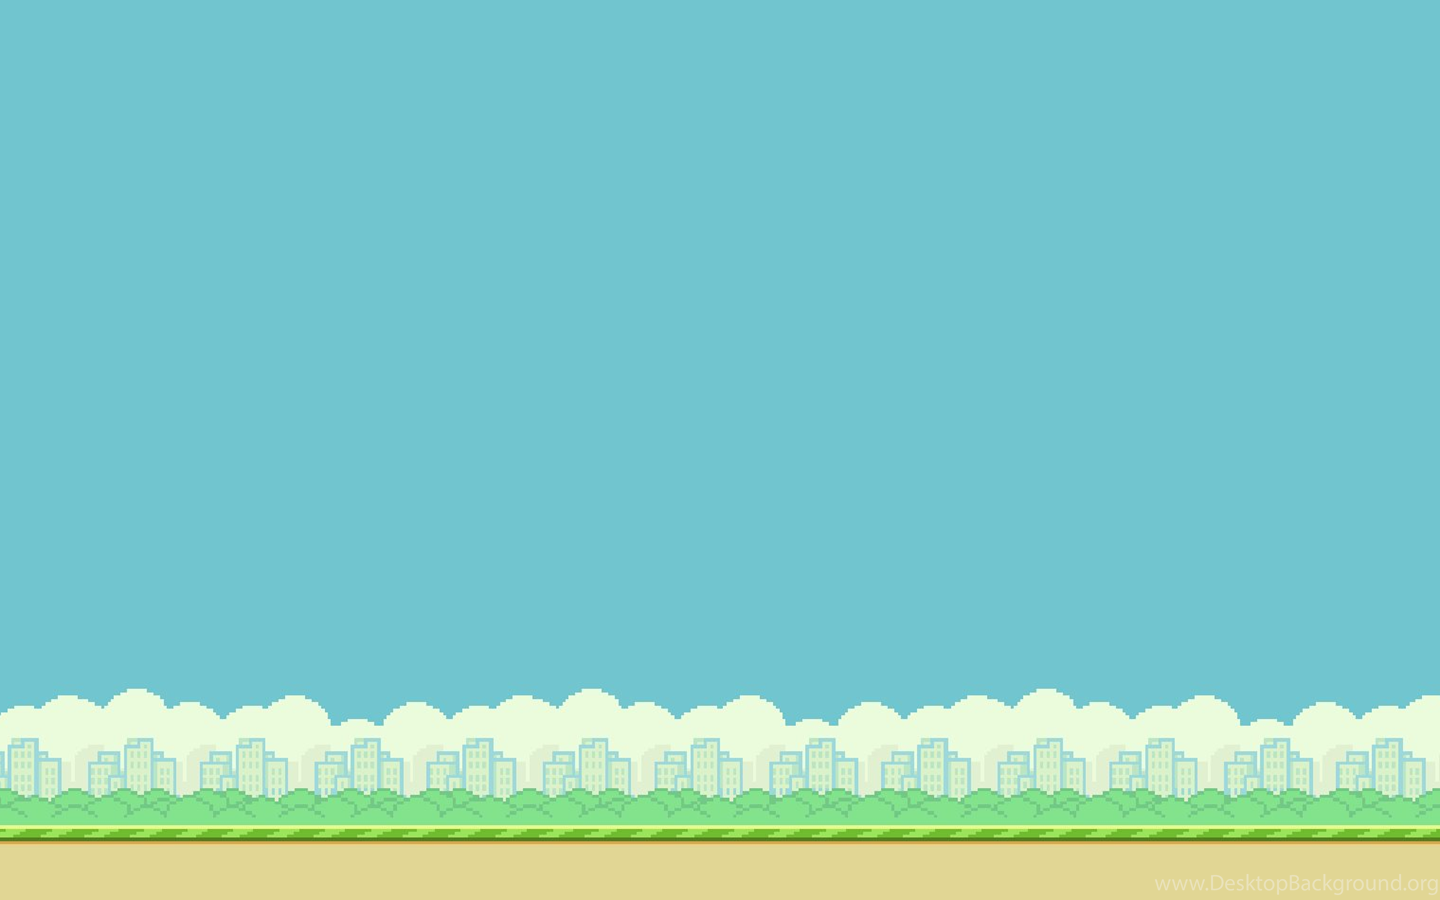
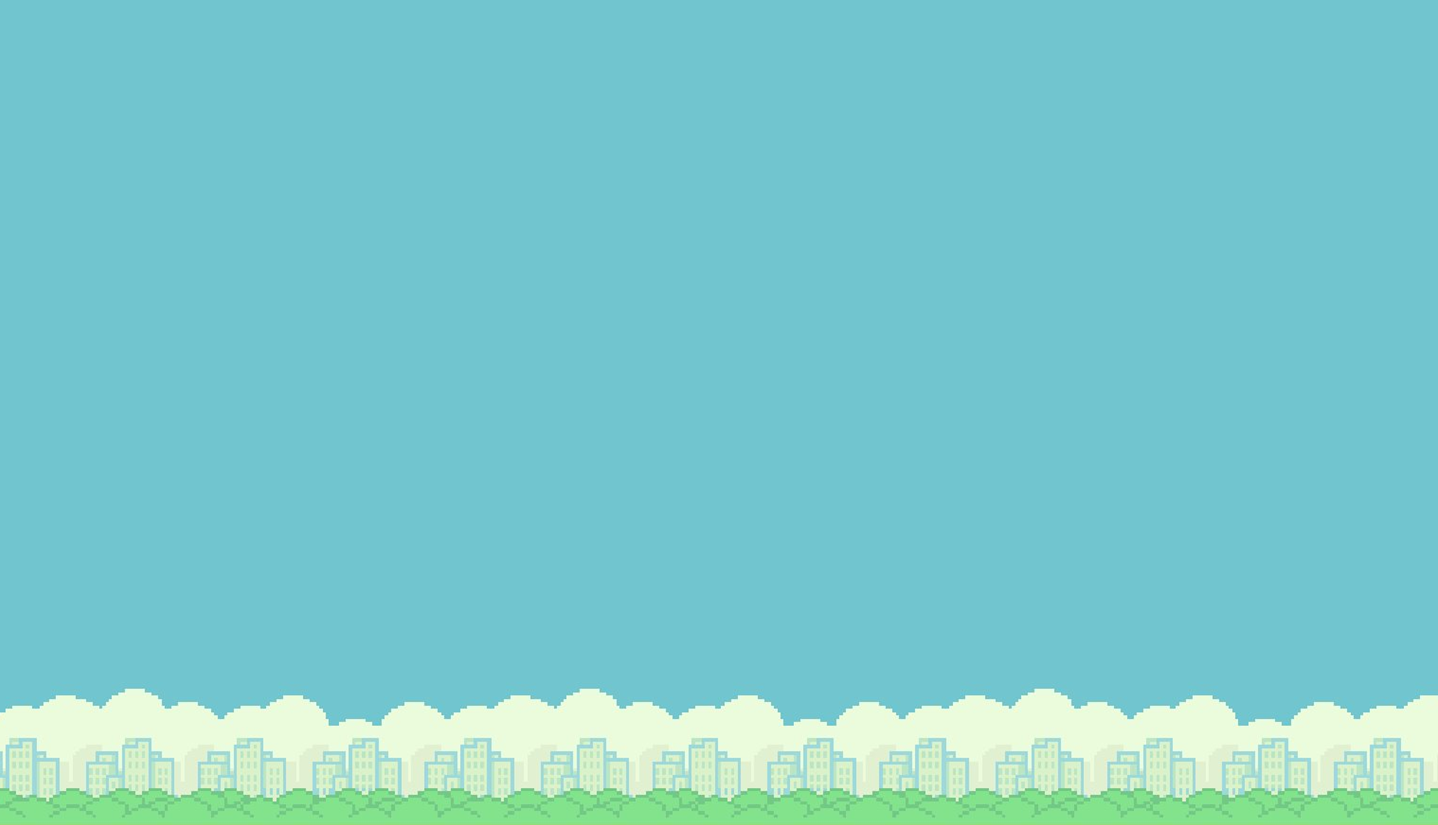
now columns are ony visible over the ground texture

Changed region(s): [[0.0, 0.7576, 1.0, 1.0]]

diff --git a/src/GameState.cpp b/src/GameState.cpp
@@ -14,26 +14,42 @@ void GameState::loadBackground(std::string assetsFolderPath) {
         std::cout<<"Failed to load background texture"<<std::endl;
         exit(1);
     }
+    if (!groundTexture.loadFromFile(assetsFolderPath+"ground.png")) {
+        std::cout<<"Failed to load background texture"<<std::endl;
+        exit(1);
+    }
     backgroundYOffset = backgroundTexture.getSize().y - getWindow()->getSize().y;
-
-    backgroundSprite[0].setTexture(backgroundTexture);
-    backgroundSprite[1].setTexture(backgroundTexture);
-    backgroundSprite[0].setPosition(0, -backgroundYOffset);
-    backgroundSprite[1].setPosition(backgroundTexture.getSize().x, -backgroundYOffset);
+    for (int i = 0; i < 2; i++) {
+        background.backgroundSprite[i].setTexture(backgroundTexture);
+        background.groundSprite[i].setTexture(groundTexture);
+    }
+    background.backgroundSprite[0].setPosition(0, -backgroundYOffset - groundHeight);
+    background.backgroundSprite[1].setPosition(backgroundTexture.getSize().x, -backgroundYOffset - groundHeight);
+    background.groundSprite[0].setPosition(0, getWindow()->getSize().y - groundHeight);
+    background.groundSprite[1].setPosition(groundTexture.getSize().x, getWindow()->getSize().y - groundHeight);
 }
 void GameState::moveBackground(const float& dt) {
     int bgTextureSize = backgroundTexture.getSize().x;
+    int grTextureSize = groundTexture.getSize().x;
     
-    if (std::abs(backgroundSprite[0].getPosition().x) > bgTextureSize) {
-        backgroundSprite[0].setPosition(backgroundSprite[1].getPosition().x + bgTextureSize, -backgroundYOffset );
+    if (std::abs(background.backgroundSprite[0].getPosition().x) > bgTextureSize) {
+        background.backgroundSprite[0].setPosition(background.backgroundSprite[1].getPosition().x + bgTextureSize, -backgroundYOffset - groundHeight);
+    }
+    if (std::abs(background.groundSprite[0].getPosition().x) > grTextureSize) {
+        background.groundSprite[0].setPosition(background.groundSprite[1].getPosition().x + grTextureSize, getWindow()->getSize().y - groundHeight );
+    }
+    if (std::abs(background.backgroundSprite[1].getPosition().x) > bgTextureSize) {
+        background.backgroundSprite[1].setPosition(background.backgroundSprite[0].getPosition().x + bgTextureSize, -backgroundYOffset - groundHeight);
+    }
+    if (std::abs(background.groundSprite[1].getPosition().x) > grTextureSize) {
+        background.groundSprite[1].setPosition(background.groundSprite[0].getPosition().x + grTextureSize, getWindow()->getSize().y - groundHeight );
     }
 
-    if (std::abs(backgroundSprite[1].getPosition().x) > bgTextureSize) {
-        backgroundSprite[1].setPosition(backgroundSprite[0].getPosition().x + bgTextureSize, -backgroundYOffset );
-    }
 
-    backgroundSprite[0].move(-backgroundMoveSpeed*dt, 0);
-    backgroundSprite[1].move(-backgroundMoveSpeed*dt, 0);
+    background.backgroundSprite[0].move(-backgroundMoveSpeed*dt, 0);
+    background.backgroundSprite[1].move(-backgroundMoveSpeed*dt, 0);
+    background.groundSprite[0].move(-backgroundMoveSpeed*dt, 0);
+    background.groundSprite[1].move(-backgroundMoveSpeed*dt, 0);
 }
 void GameState::initCollisionBox() {
     collision_box.setSize(sf::Vector2f(getWindow()->getSize().x, groundHeight));
@@ -186,8 +202,8 @@ void GameState::update(const float& dt) {
 }
 
 void GameState::render(sf::RenderTarget* window) {
-    window->draw(backgroundSprite[0]);
-    window->draw(backgroundSprite[1]);
+    window->draw(background.backgroundSprite[0]);
+    window->draw(background.backgroundSprite[1]);
 
     if (!sentStartingMessage) {
         window->draw(getStartText());
@@ -200,6 +216,8 @@ void GameState::render(sf::RenderTarget* window) {
             e->render(window);
         }
     }
+    window->draw(background.groundSprite[0]);
+    window->draw(background.groundSprite[1]);
     if (gameEnded) {
         window->draw(getEndingText());
     } else {

diff --git a/src/include/GameState.hpp b/src/include/GameState.hpp
@@ -4,12 +4,19 @@
 #include "State.hpp"
 #include "Obstacle.hpp"
 
+struct Background {
+    sf::Sprite backgroundSprite[2];
+    sf::Sprite groundSprite[2];
+};
+
 class GameState : public State {
 private:
     Player* player;
 
     sf::Texture backgroundTexture;
-    sf::Sprite backgroundSprite[2];
+    sf::Texture groundTexture;
+    Background background;
+
     sf::RectangleShape collision_box;
     sf::Font font;
     sf::Text text;
